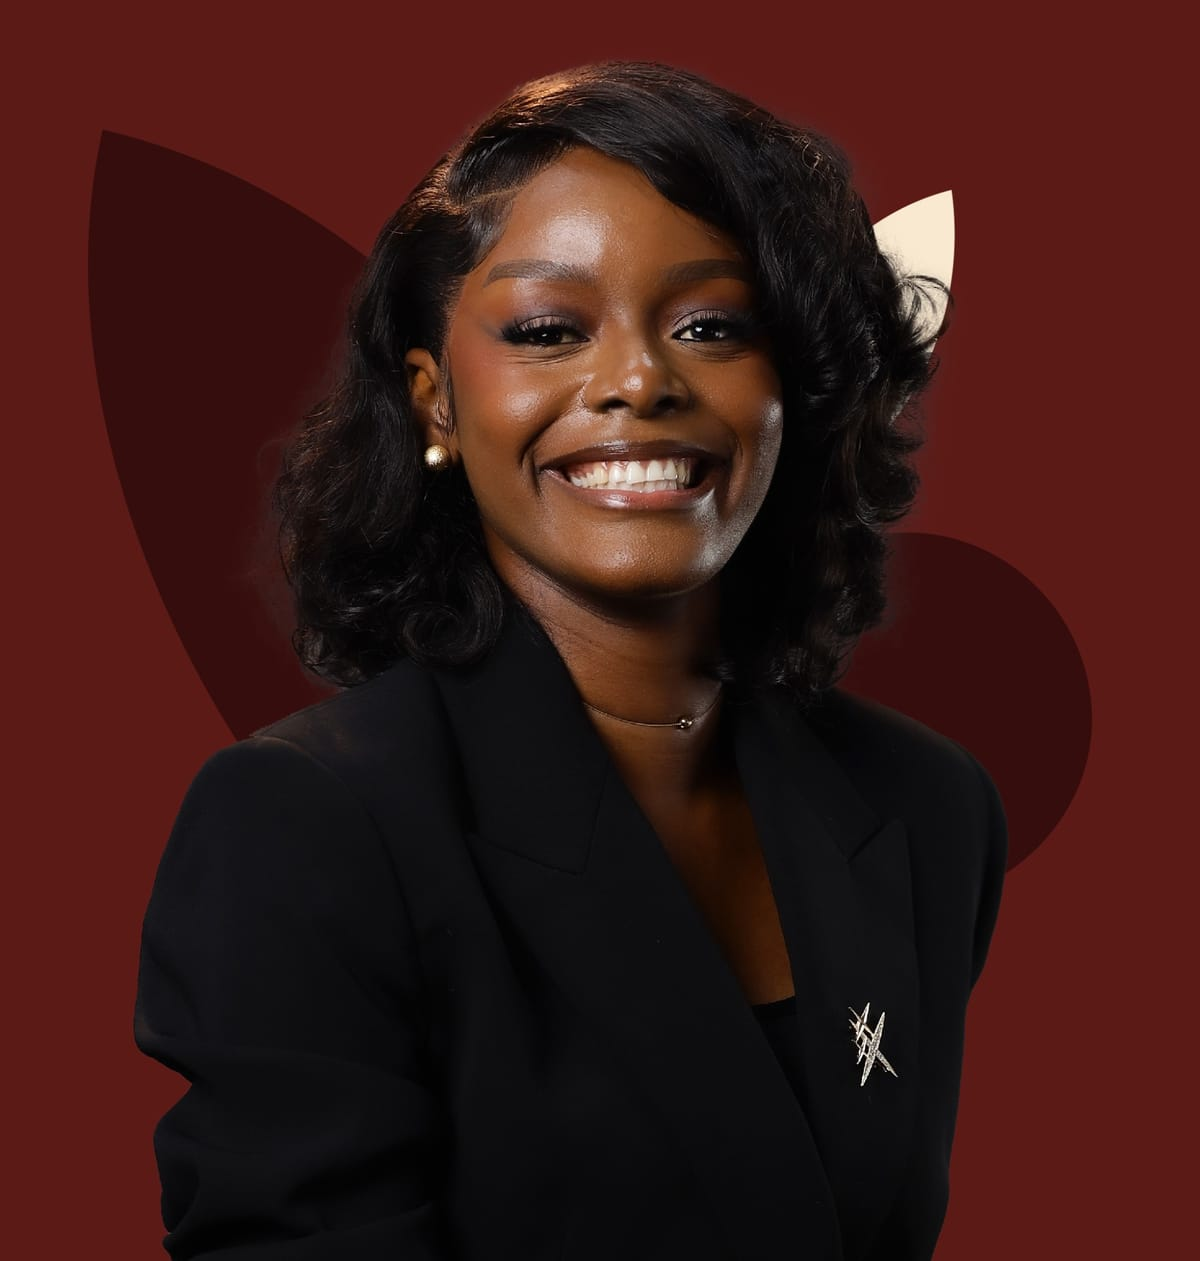
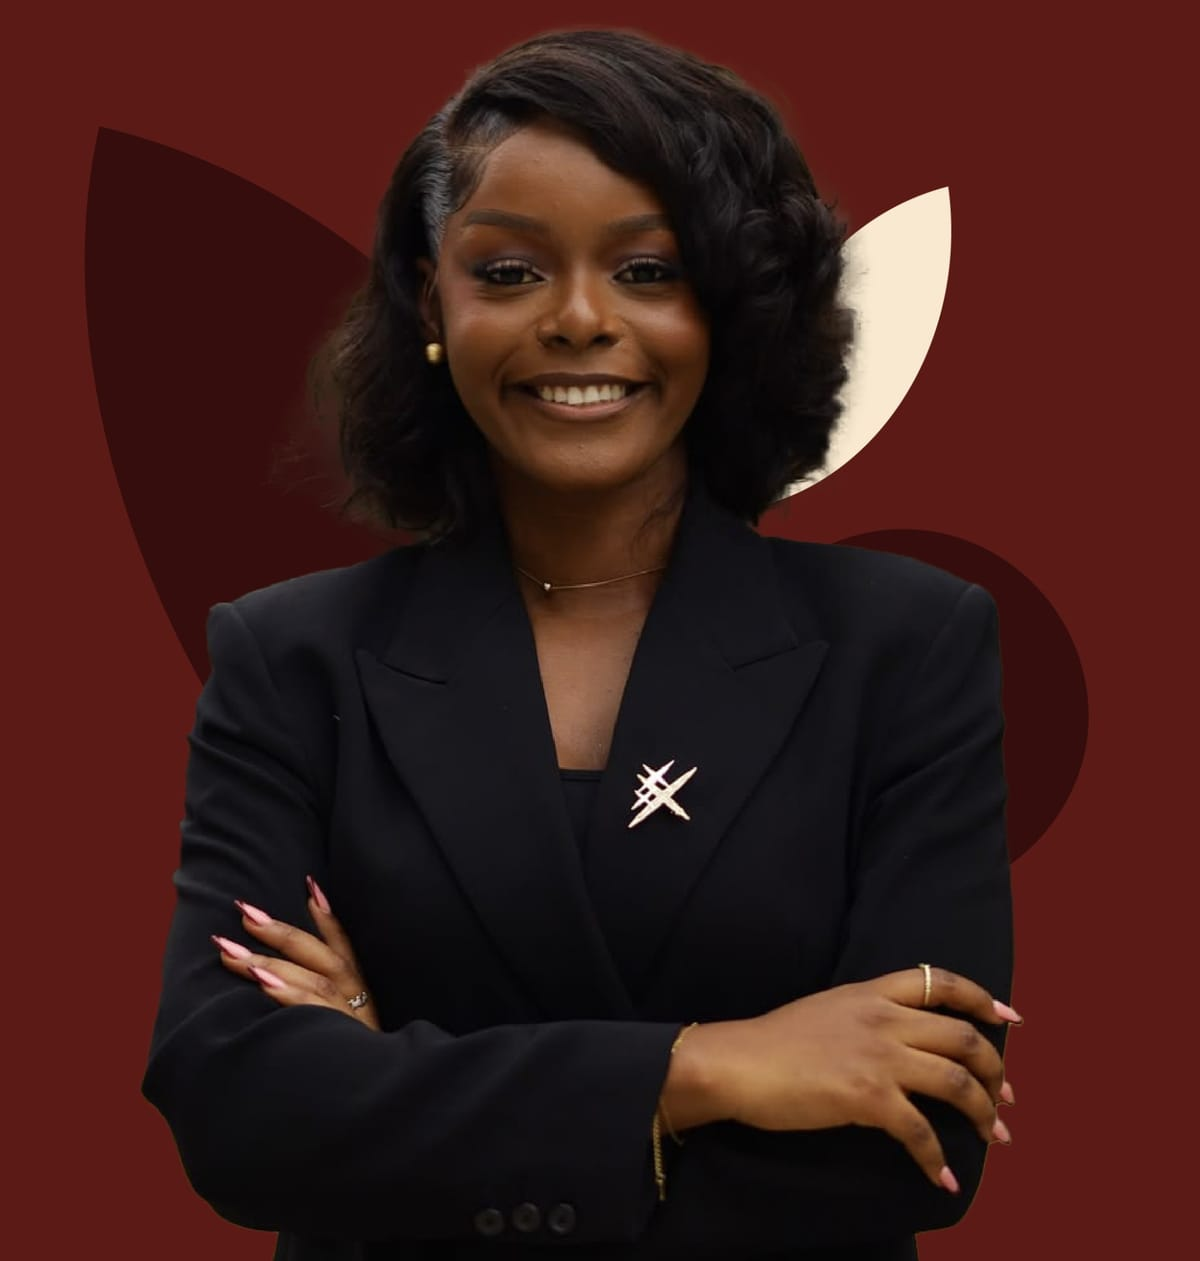
Page /sublimekoyi : nouvelle photo principale
- Hero : nouvelle photo (bras croisés), fichier sublime-koyi-saley.jpg
- Ancien portrait renommé sublime-koyi-saley-portrait.jpg, placé dans la section HATUA Foundation (remplace la photo de conférence, retirée)
- Accueil et image de partage inchangés (ils utilisent le portrait)

Claude-Session: https://claude.ai/code/session_01VH8iHKzrYnHpn191Gx855i

diff --git a/src/data/fondatrice.ts b/src/data/fondatrice.ts
@@ -19,8 +19,16 @@ export const fondatrice = {
 
   // Photos (dossier public/images)
   photos: {
-    portrait: {
+    // Photo principale (hero de la page)
+    hero: {
       src: '/images/sublime-koyi-saley.jpg',
+      width: 1200,
+      height: 1261,
+      alt: 'Sublime Koyi Saley, souriante, les bras croisés, en veste noire',
+    },
+    // Portrait studio (section HATUA Foundation de la page, accueil, image de partage)
+    portrait: {
+      src: '/images/sublime-koyi-saley-portrait.jpg',
       width: 1200,
       height: 1261,
       alt: 'Portrait de Sublime Koyi Saley, souriante, en veste noire',
@@ -36,12 +44,6 @@ export const fondatrice = {
       width: 580,
       height: 628,
       alt: 'Prise de parole au micro lors d’une conférence',
-    },
-    conference: {
-      src: '/images/sublime-koyi-saley-conference.jpg',
-      width: 471,
-      height: 655,
-      alt: 'Prise de parole au pupitre lors d’une conférence',
     },
     og: '/og-fondatrice.jpg',
   },

diff --git a/public/images/README.md b/public/images/README.md
@@ -8,8 +8,9 @@ comme des actions réelles de la fondation.
 |---|---|---|
 | ✅ `echos-eleves.webp` (+ `echos-eleves-800.webp` pour mobile) | Accueil (bloc ÉCHOS), page Projets, page ÉCHOS | Fournie. À compléter plus tard par des photos réelles du projet au Lycée Tobongisa |
 | `fondatrice.webp` (+ `-640` et `-avatar`) | Page À propos, page S'engager, mot de la fondatrice | Fournie. **Provisoire** sur À propos (→ photo d'équipe) et S'engager (→ photo d'atelier) |
-| `sublime-koyi-saley.jpg` | Page Fondatrice (hero, partage), accueil (section « À la découverte de la fondatrice ») | Fournie. Peut être remplacée par un fichier du même nom |
-| `sublime-koyi-saley-intervention.jpg`, `-pupitre.jpg`, `-conference.jpg` | Page Fondatrice (Vision, Parcours, HATUA Foundation) | Fournies |
+| `sublime-koyi-saley.jpg` | Page /sublimekoyi (hero) | Fournie. Peut être remplacée par un fichier du même nom |
+| `sublime-koyi-saley-portrait.jpg` | Page /sublimekoyi (section HATUA Foundation), accueil (« À la découverte de la fondatrice »), image de partage | Fournie |
+| `sublime-koyi-saley-intervention.jpg`, `-pupitre.jpg` | Page /sublimekoyi (Vision, Parcours) | Fournies |
 | *(optionnel)* | — | Photos supplémentaires : salles de classe, ateliers, communautés, équipe |
 
 ## Conseils
